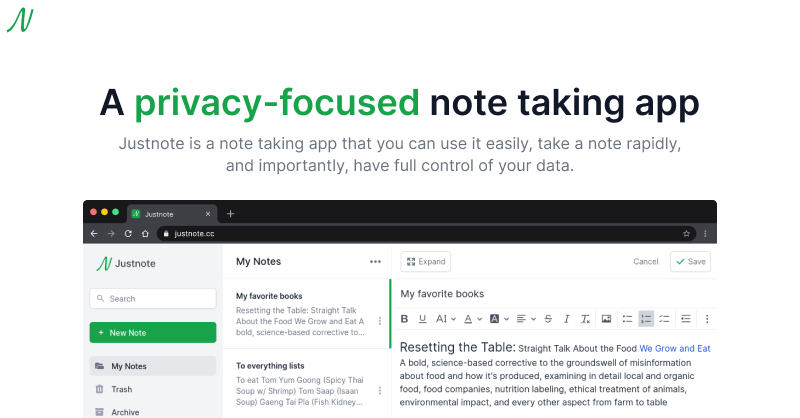
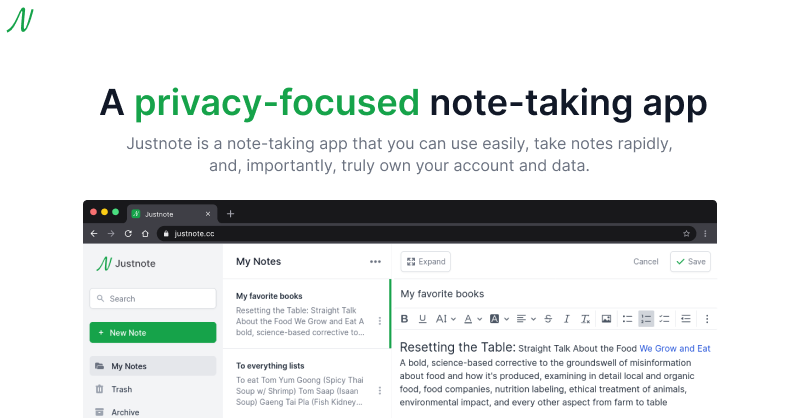
Update description in public/index.html

Changed region(s): [[0.1562, 0.1866, 0.9062, 0.4354]]

diff --git a/packages/web/public/index.html b/packages/web/public/index.html
@@ -6,12 +6,12 @@
     <link rel="icon" type="image/png" sizes="32x32" href="%PUBLIC_URL%/logo32.png" />
     <meta name="viewport" content="width=device-width, initial-scale=1" />
     <meta name="theme-color" content="#ffffff" />
-    <meta name="description" content="A simple, fast, privacy-focused note taking app that you can use it easily, take a note rapidly, and importantly, have full control of your data." />
+    <meta name="description" content="A simple, fast, privacy-focused note-taking app that you can use easily, take notes rapidly, and, importantly, truly own your account and data." />
 
     <meta name="twitter:site" content="@justnotecc" />
     <meta name="twitter:title" content="Justnote - Simple & Private Taking Notes" />
     <meta name="twitter:url" content="https://justnote.cc" />
-    <meta name="twitter:description" content="A simple, fast, privacy-focused note taking app that you can use it easily, take a note rapidly, and importantly, have full control of your data." />
+    <meta name="twitter:description" content="A simple, fast, privacy-focused note-taking app that you can use easily, take notes rapidly, and, importantly, truly own your account and data." />
     <meta name="twitter:image" content="https://justnote.cc/twitter-card-image-pattern1.png" />
     <meta name="twitter:card" content="summary_large_image" />
 
@@ -19,13 +19,13 @@
     <meta property="og:title" content="Justnote - Simple & Private Taking Notes" />
     <meta property="og:url" content="https://justnote.cc" />
     <meta property="og:type" content="website"/>
-    <meta property="og:description" content="A simple, fast, privacy-focused note taking app that you can use it easily, take a note rapidly, and importantly, have full control of your data." />
+    <meta property="og:description" content="A simple, fast, privacy-focused note-taking app that you can use easily, take notes rapidly, and, importantly, truly own your account and data." />
     <meta property="og:image" content="https://justnote.cc/twitter-card-image-pattern1.png" />
     <meta property="og:image:url" content="https://justnote.cc/twitter-card-image-pattern1.png" />
 
     <meta itemprop="name" content="Justnote" />
     <meta itemprop="headline" content="Justnote - Simple & Private Taking Notes" />
-    <meta itemprop="description" content="A simple, fast, privacy-focused note taking app that you can use it easily, take a note rapidly, and importantly, have full control of your data." />
+    <meta itemprop="description" content="A simple, fast, privacy-focused note-taking app that you can use easily, take notes rapidly, and, importantly, truly own your account and data." />
     <meta itemprop="image" content="https://justnote.cc/twitter-card-image-pattern1.png" />
 
     <link rel="apple-touch-icon" sizes="180x180" href="%PUBLIC_URL%/apple-touch-icon.png" />
